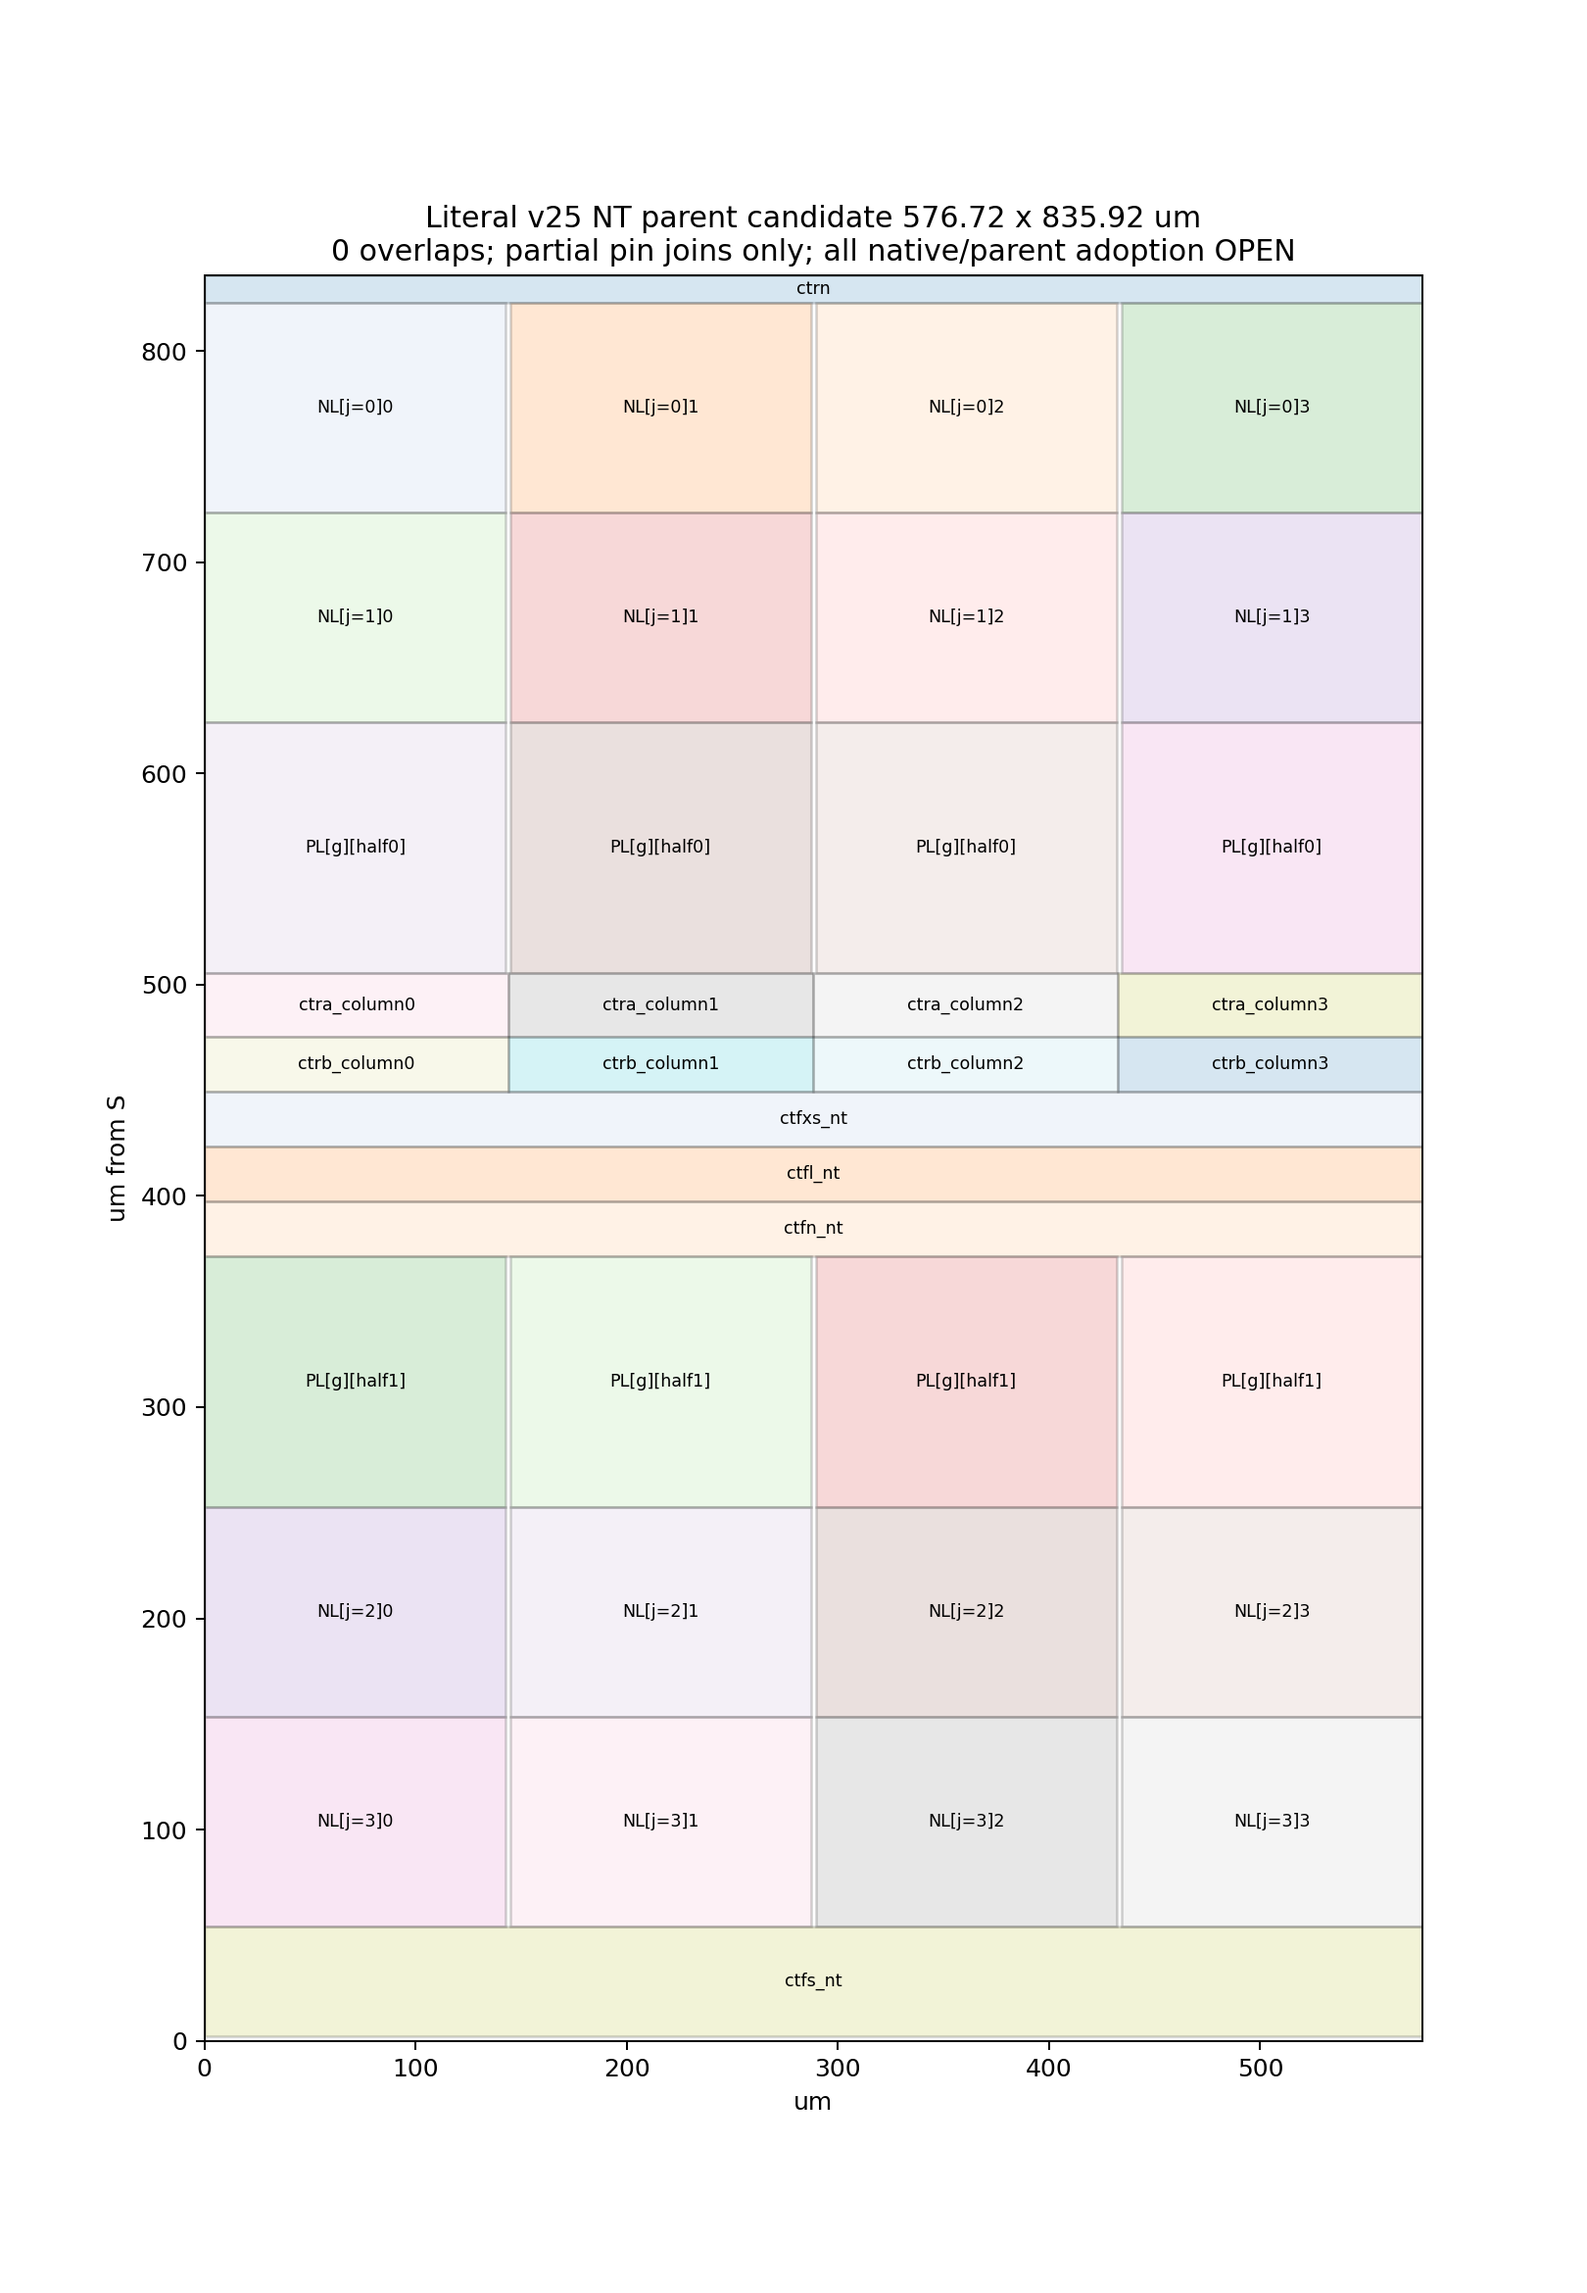
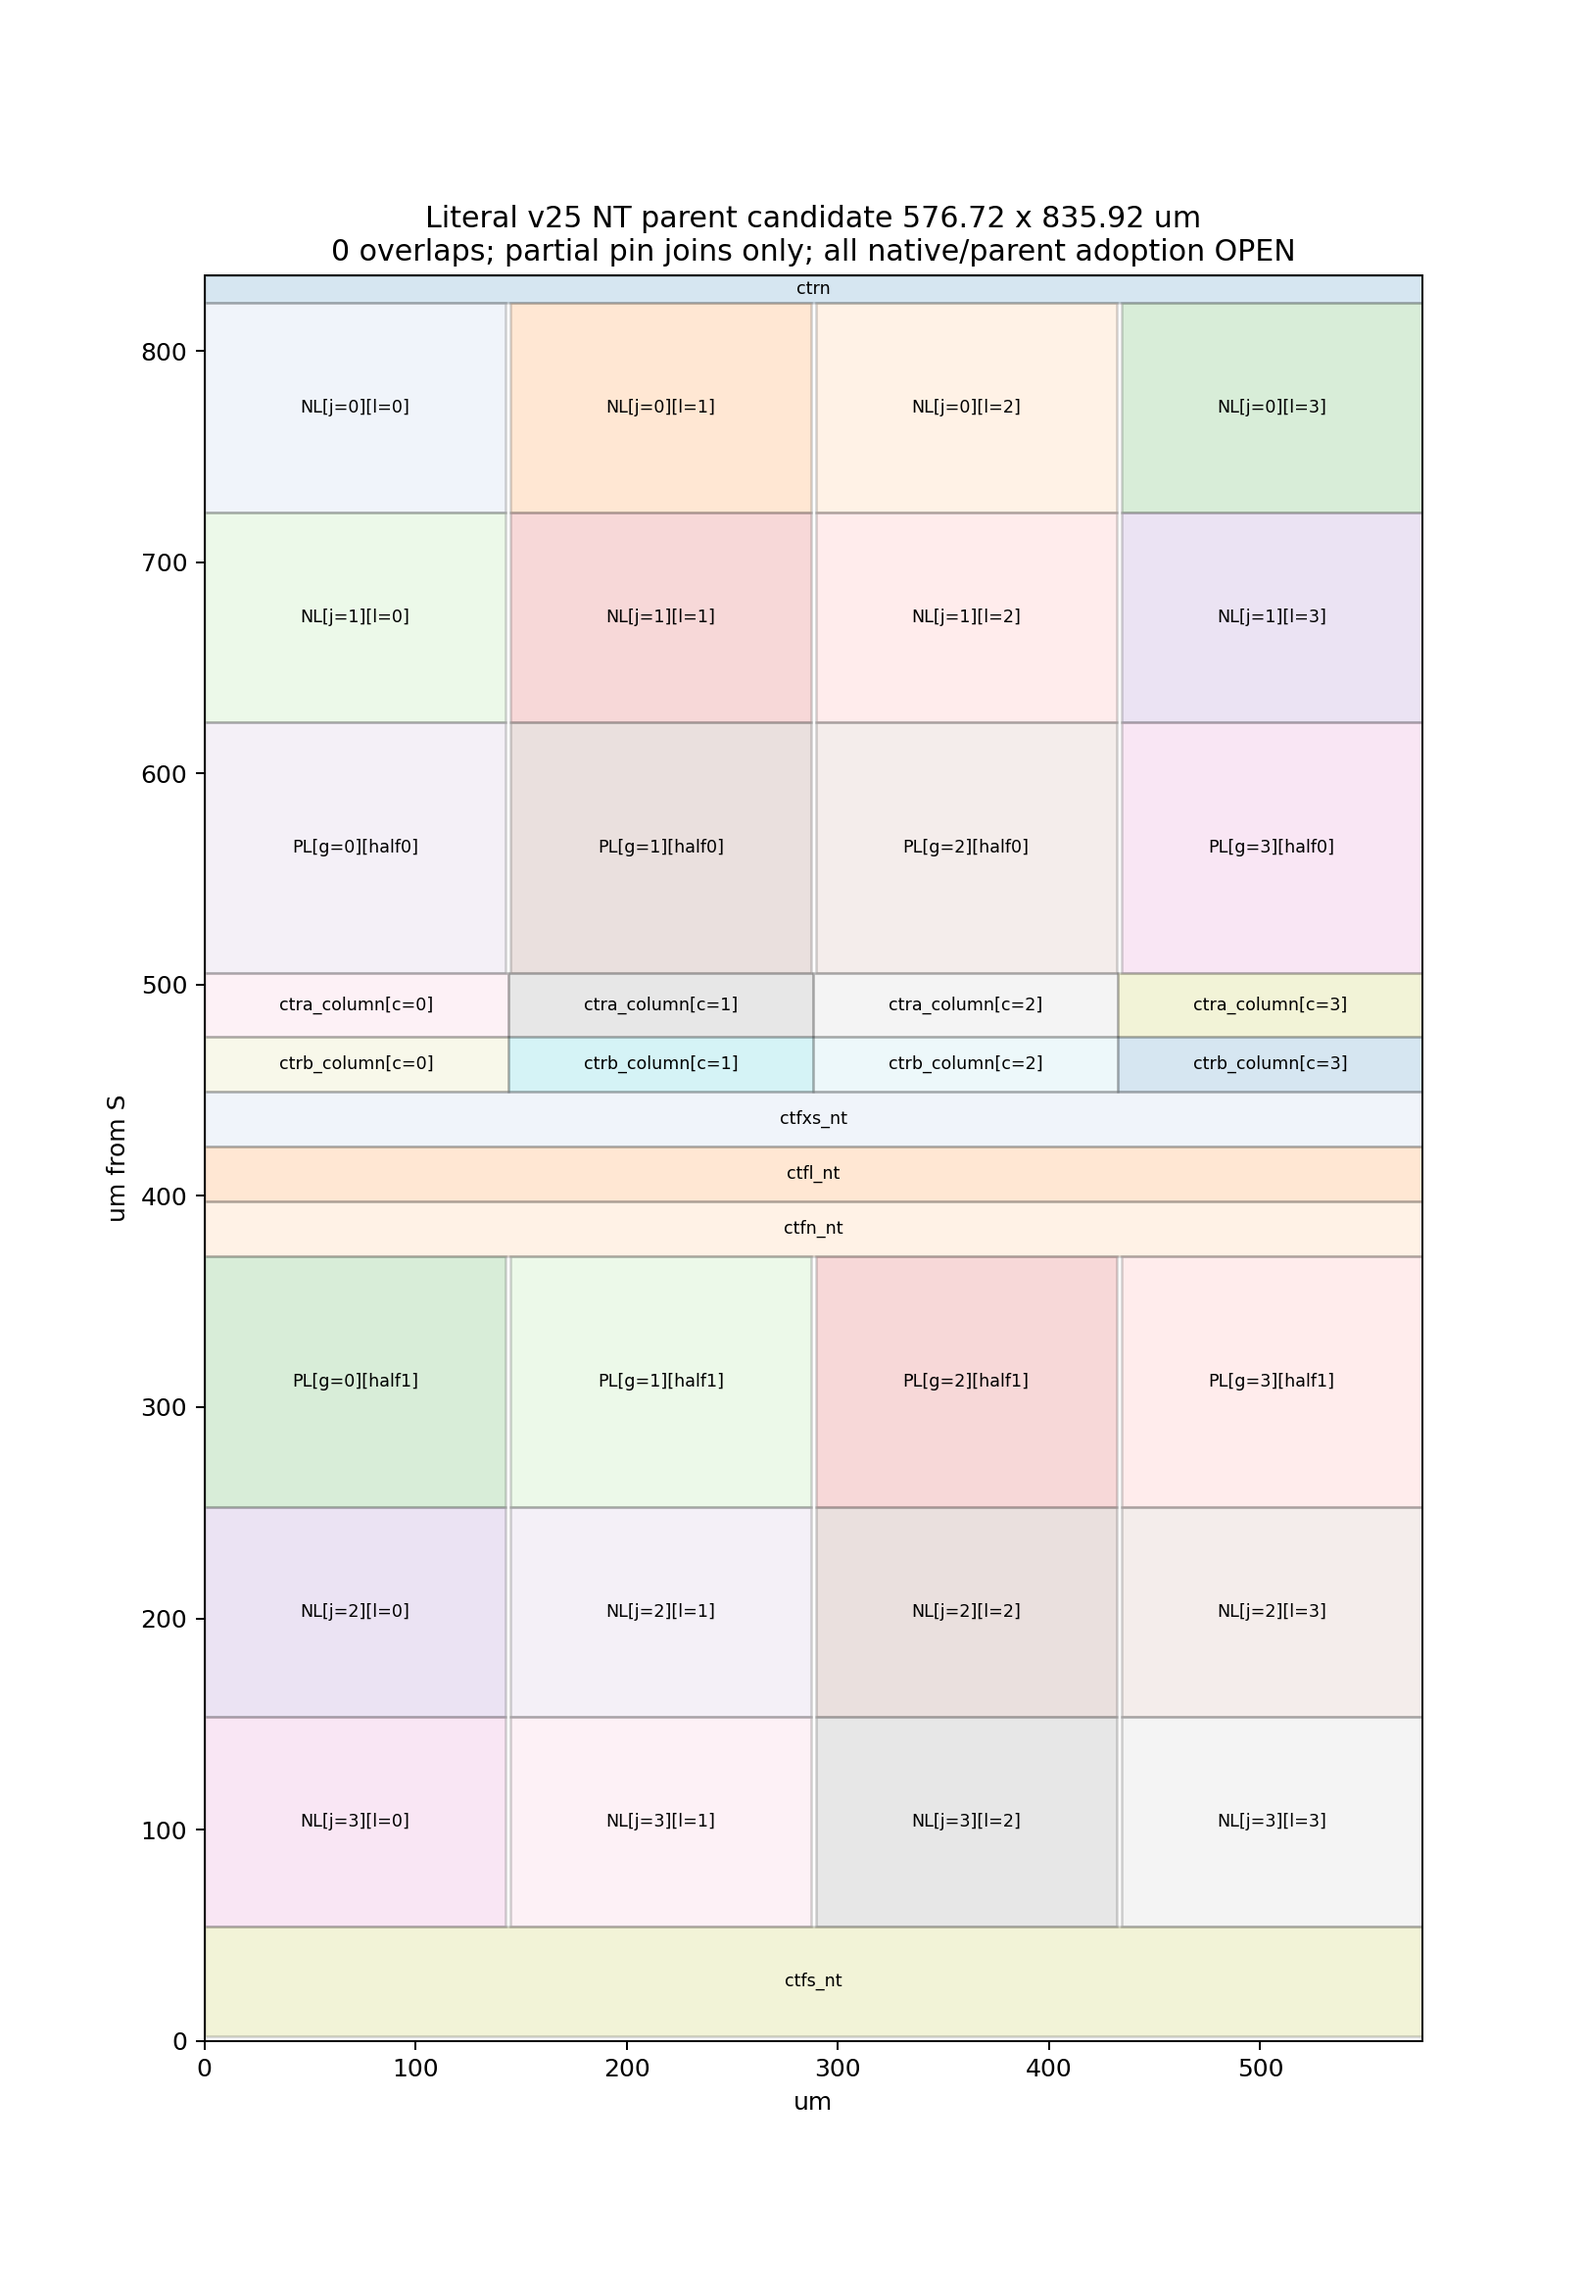
S81 parent studies: unique row identities and inspected local-bank outline

diff --git a/tools/s81/hc_nt_parent_candidate.py b/tools/s81/hc_nt_parent_candidate.py
@@ -25,10 +25,12 @@ def main():
  H=835.92;W=576.72;instances=[]
  for r in new:
   for col,x in enumerate(r.get('x_cols',old['x_cols']) if r.get('per_col') else [0.]):
-   inst=dict(name=r['tile'].replace('[c]',str(col)).replace('[l]',str(col)),cell=r['cell'],x=x,y_from_N=r['y'],w=r['w'],h=r['h'],orient='R0',row_reservation=True)
+   name=r['tile'].replace('[c]',f'[c={col}]').replace('[l]',f'[l={col}]').replace('[g]',f'[g={col}]')
+   inst=dict(name=name,cell=r['cell'],x=x,y_from_N=r['y'],w=r['w'],h=r['h'],orient='R0',row_reservation=True,instantiation_status='SOURCE_BINDING_OPEN')
    if r['tile'].startswith('ctnl'):inst['cell']=f'ot_s81_hc_ctnl_l{col}';inst['native_view_binding']='OPEN: actual native successor LEF must be bound, no inherited view'
    if r['cell'].endswith('_column'):inst['params']={'COLUMN':col}
    instances.append(inst)
+ assert len({i['name'] for i in instances})==len(instances)
  overlaps=[]
  for i,x in enumerate(instances):
   assert 0<=x['x'] and x['x']+x['w']<=W+.001 and x['y_from_N']+x['h']<=H+.001
